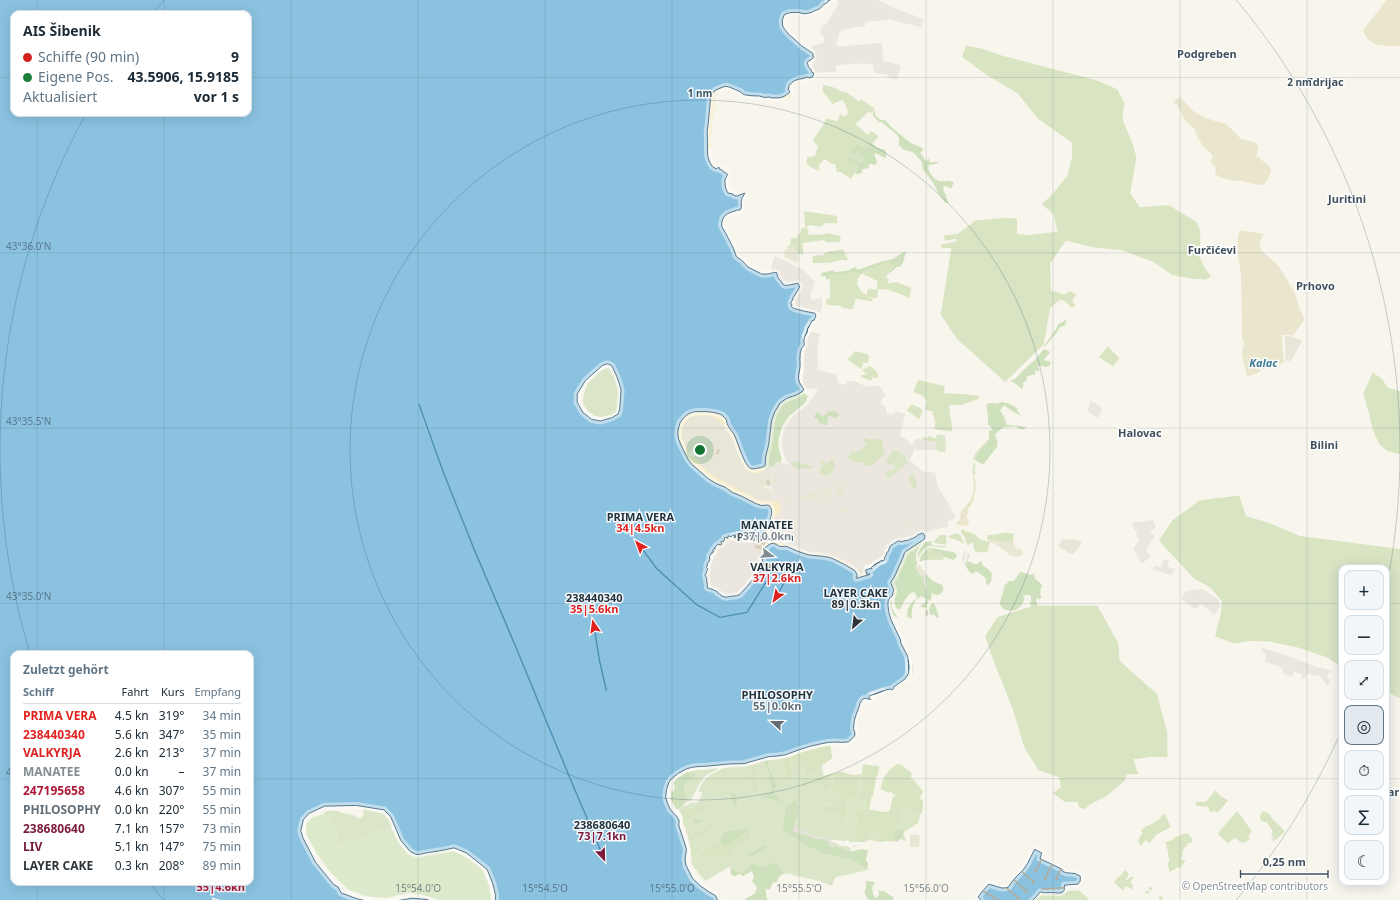
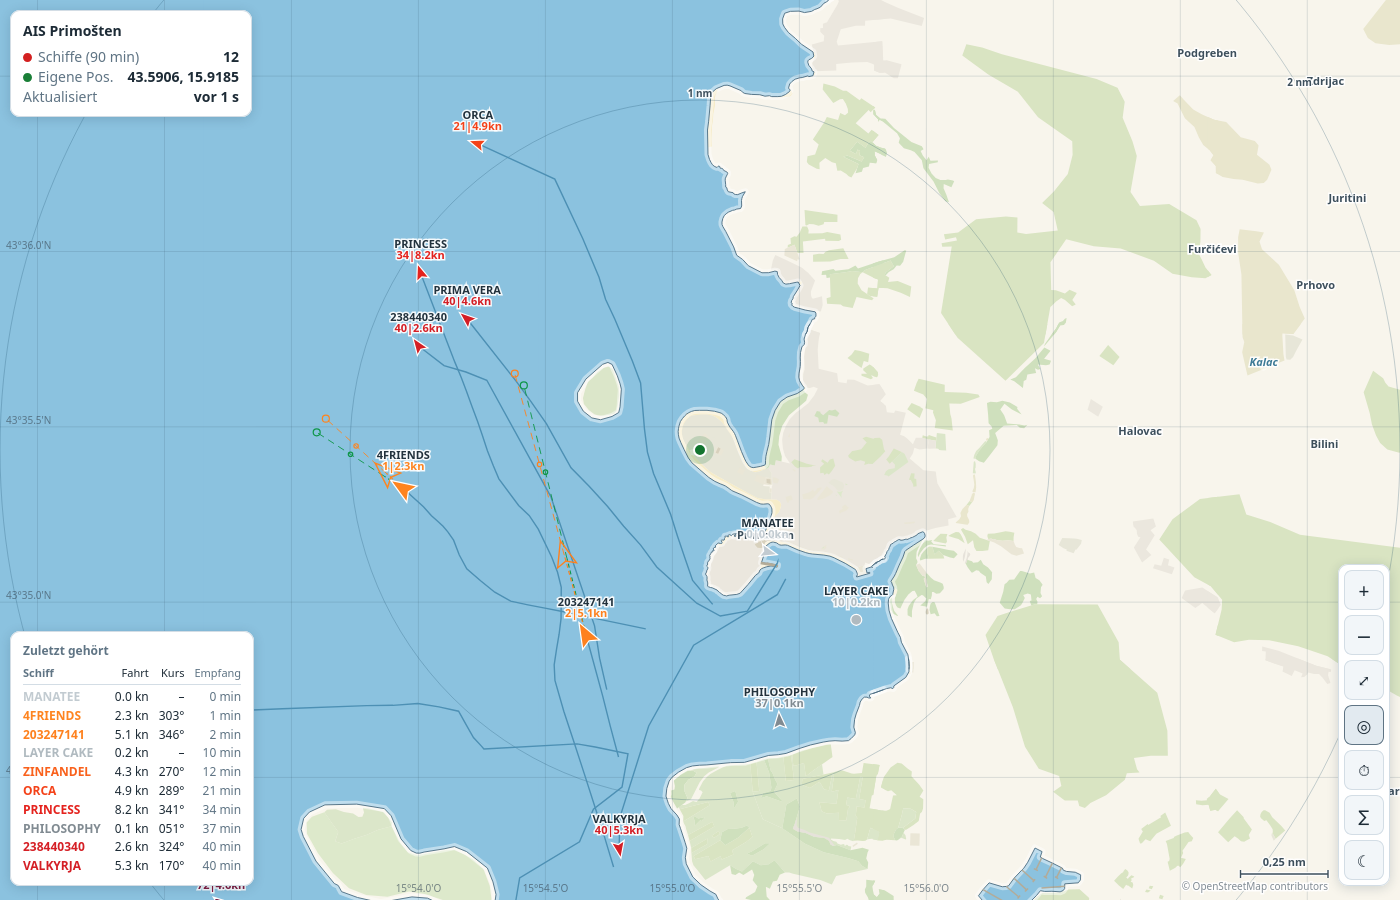
Beobachtungsort ist Primošten, nicht Šibenik
Der Empfaenger steht 0,32 nm von Primosten entfernt, Sibenik liegt
8,67 nm noerdlich. Titel der Karte, systemd-Beschreibung und CLAUDE.md
korrigiert. Das Kartenblatt heisst weiter sibenik_archipel, weil es
tatsaechlich den ganzen Archipel abdeckt.

Neuer Screenshot mit zwoelf Schiffen, neun davon in Fahrt, samt
Vorhersagepfaden der beiden frisch gehoerten Ziele.

Dabei aufgefallen: Ortsnamen und Schiffsbeschriftungen schrieben
uebereinander -- im Bild traf MANATEE genau auf Primosten. Der Ortsname
weicht jetzt aus; er steht ohnehin fest und kommt wieder, sobald das
Schiff weitergefahren ist.

diff --git a/tools/webmaptest/test-etiketten.js b/tools/webmaptest/test-etiketten.js
@@ -1,0 +1,55 @@
+// Ortsnamen weichen Schiffsbeschriftungen aus.
+C = THEMES.light; W = 1280; H = 800;
+const ORT = {n:"Primošten", k:"village", c:[[[15.9228, 43.5863]]]};
+base = {layers:{ocean:[], place_labels:[ORT]}, bounds:[15.4,43.3,16.2,43.9], attribution:""};
+view = {cx: mx(15.9185), cy: my(43.5906), scale: 5485428};
+
+const X = sx(mx(15.9228)), Y = sy(my(43.5863));
+const namen = () => { calls.length = 0; draw();
+  return calls.filter(x=>x.op==="fillText").map(x=>x.args[0]); };
+
+console.log("\n--- ohne Schiff ---");
+live = {own:null, now:0, max_age_min:90, ships:[], tracks:{}};
+ok("Ortsname wird gezeichnet", namen().includes("Primošten"));
+
+console.log("\n--- Schiff so, dass seine Beschriftung den Ort trifft ---");
+// Die Schiffsbeschriftung sitzt 25 bzw. 14 px UEBER dem Symbol. Verdeckt
+// wird der Ort also, wenn das Schiff etwas unterhalb von ihm liegt --
+// im echten Kartenbild waren es 13 px.
+function schiffBei(pixelUnterOrt, name) {
+  const yWelt = (Y + pixelUnterOrt - H / 2) / view.scale + view.cy;
+  return {mmsi:1, lat: invMy(yWelt), lon: 15.9228,
+          sog:0, cog:null, hdg:null, ts:0, name};
+}
+{
+  live = {own:null, now:0, max_age_min:90, tracks:{}, ships:[schiffBei(13, "MANATEE")]};
+  const t = namen();
+  ok("Ortsname weicht aus", !t.includes("Primošten"), t.join(", "));
+  ok("Schiffsname bleibt", t.includes("MANATEE"));
+}
+{
+  live = {own:null, now:0, max_age_min:90, tracks:{}, ships:[schiffBei(-40, "DRUEBER")]};
+  ok("Schiff oberhalb verdeckt nicht", namen().includes("Primošten"));
+}
+
+console.log("\n--- Schiff weit genug weg ---");
+{
+  const s = {mmsi:1, lat:43.5700, lon:15.9500, sog:0, cog:null, hdg:null, ts:0, name:"WEIT"};
+  live = {own:null, now:0, max_age_min:90, ships:[s], tracks:{}};
+  const t = namen();
+  ok("Ortsname wird wieder gezeichnet", t.includes("Primošten"), t.join(", "));
+}
+
+console.log("\n--- ohne Schiffsbeschriftung (weit herausgezoomt) ---");
+{
+  view = {cx: mx(15.9185), cy: my(43.5906), scale: 50000};
+  const s = {mmsi:1, lat:43.5863, lon:15.9228, sog:0, cog:null, hdg:null, ts:0, name:"MANATEE"};
+  live = {own:null, now:0, max_age_min:90, ships:[s], tracks:{}};
+  const t = namen();
+  ok("kein Schiffslabel -> keine Verdeckung noetig", !t.includes("MANATEE"));
+  // Ortsname faellt hier ohnehin unter die Zoomschwelle
+  ok("Dorf unterhalb der Zoomschwelle nicht benannt", !t.includes("Primošten"));
+}
+
+console.log(globalThis.__fail ? `\n${globalThis.__fail} FEHLER` : "\nalle Pruefungen bestanden");
+process.exit(globalThis.__fail ? 1 : 0);

diff --git a/webmap/static/index.html b/webmap/static/index.html
@@ -108,7 +108,7 @@
 <canvas id="map"></canvas>
 
 <div class="panel" id="hud">
-  <h1>AIS Šibenik</h1>
+  <h1>AIS Primošten</h1>
   <div class="row"><span><i class="dot" style="background:var(--c-ship)"></i>Schiffe<span id="ship-window"></span></span><b id="n-ships">–</b></div>
   <div class="row"><span><i class="dot" style="background:var(--c-own)"></i>Eigene Pos.</span><b id="own-state">–</b></div>
   <div class="row"><span>Aktualisiert</span><b id="age">–</b></div>
@@ -730,6 +730,19 @@ function draw() {
   drawWaterLabels();
 
   if (base && base.layers && base.layers.place_labels) {
+    /* Wo ein Schiff beschriftet ist, bleibt der Ortsname weg. Beide an
+       derselben Stelle ergeben zwei unlesbare Texte statt einem lesbaren,
+       und das Schiff ist die Nachricht — der Ort steht ohnehin fest und
+       kommt wieder, sobald es weitergefahren ist. */
+    const belegt = [];
+    if (live) for (const s of live.ships) {
+      if (view.scale > 60000 || (selected && selected.mmsi === s.mmsi)) {
+        belegt.push([sx(mx(s.lon)), sy(my(s.lat))]);
+      }
+    }
+    const verdeckt = (X, Y) => belegt.some(([bx, by]) =>
+      Math.abs(X - bx) < 62 && Y > by - 34 && Y < by - 4);
+
     ctx.textAlign = "center";
     for (const f of base.layers.place_labels) {
       if (!f.n || !f.c[0] || !f.c[0][0]) continue;
@@ -742,6 +755,7 @@ function draw() {
       ctx.font = gross ? "700 12px system-ui, sans-serif"
                        : "600 11px system-ui, sans-serif";
       const p = f.c[0][0], X = sx(mx(p[0])), Y = sy(my(p[1]));
+      if (verdeckt(X, Y)) continue;
       ctx.lineWidth = 3; ctx.strokeStyle = C.shipLabelHalo; ctx.strokeText(text, X, Y);
       ctx.fillStyle = C.label; ctx.fillText(text, X, Y);
     }

diff --git a/CLAUDE.md b/CLAUDE.md
@@ -182,7 +182,11 @@ Küstenlinie damit unsichtbar.
   sind unmögliche Nachrichten und damit der Indikator für die
   Empfangsqualität – er darf nicht durch bewusst verworfene Typen
   verwässert werden.
-- Geplant ist die Beobachtung bei **Šibenik, Kroatien**. Das vorhandene
+- Beobachtet wird bei **Primošten, Kroatien** (43,5906° N / 15,9185° O) –
+  der Ort liegt 0,32 nm vom Empfänger entfernt, die Stadt Šibenik dagegen
+  8,67 nm. Frühere Fassungen dieser Datei nannten irrtümlich Šibenik als
+  Standort; das Kartenblatt heißt weiterhin `sibenik_archipel`, weil es
+  tatsächlich den ganzen Šibenik-Archipel abdeckt. Das vorhandene
   Kartenmaterial deckt 15,809–15,945° O / 43,551–43,630° N ab – das ist die
   **Seezufahrt mit den Inseln**, nicht die Stadt selbst (die liegt bei
   43,735° N, also nördlich außerhalb).
@@ -217,7 +221,7 @@ Küstenlinie damit unsichtbar.
   jedem Neustart setzt systemd die Uhr auf den zuletzt gespeicherten
   Zeitpunkt; die reale Ausschaltdauer geht verloren, der Versatz wächst
   also mit jedem Boot. `journalctl --list-boots` zeigt fünf Boots, und die
-  Fahrt Steiermark → Šibenik (rund 600 km) erscheint in der Systemuhr als
+  Fahrt Steiermark → Primošten (rund 600 km) erscheint in der Systemuhr als
   wenige Minuten. Ein einheitlicher Versatz ist daher nur für die
   zusammenhängende, ortsfeste Phase in Kroatien zulässig.
 
@@ -225,7 +229,7 @@ Küstenlinie damit unsichtbar.
   wurden um +177.492 s korrigiert, die älteren Zeilen aus der Steiermark
   am 28.08.2026 **gelöscht** – ihr Versatz war nicht rekonstruierbar, und
   sie enthielten ohnehin nur Rauschen. Die Datenbank enthält seither
-  ausschließlich Daten vom 28.08.2026 aus Šibenik.
+  ausschließlich Daten vom 28.08.2026 aus Primošten.
 
   Sicherung mit dem vollständigen alten Stand (inkl. Steiermark-Zeilen und
   unkorrigierten Zeitstempeln): `data/aisdb_vor_uhrkorrektur.sqlite`.

diff --git a/README.md b/README.md
@@ -5,10 +5,13 @@ speichert sie in einer lokalen SQLite-Datenbank (`data/aisdb.sqlite`).
 
 ![Die Seekarte mit empfangenem Schiffsverkehr](doc/karte.png)
 
-*Die Zufahrt nach Šibenik. Rote Pfeile sind Schiffe in Fahrt, die zweite
-Zeile nennt das Alter der Meldung und die Fahrt; der grüne Punkt ist die
-eigene Position mit dem 1-nm-Abstandsring. Links unten die zuletzt
-gehörten Schiffe, unten rechts Maßstab und Quellenangabe.*
+*Live-Verkehr vor Primošten: zwölf Schiffe, neun davon in Fahrt. Die
+Farbe nennt beides – Farbton die Fahrt, Helligkeit das Alter der Meldung.
+Die zwei orangen, vergrößerten Ziele wurden vor ein und zwei Minuten
+gehört und ziehen ihre gekoppelte Route für die nächsten sechs Minuten
+hinter sich her (gestrichelt, mit Marken bei 3 und 6 min); grün derselbe
+Pfad aus dem gemeldeten Kurs. Der grüne Punkt ist die eigene Position mit
+dem 1-nm-Abstandsring, links unten die zuletzt gehörten Schiffe.*
 
 Zum Übertragen des Projekts auf einen anderen Rechner (auch Windows/macOS)
 siehe [PORTING.md](PORTING.md), zur Ersteinrichtung [INSTALL.md](INSTALL.md).
